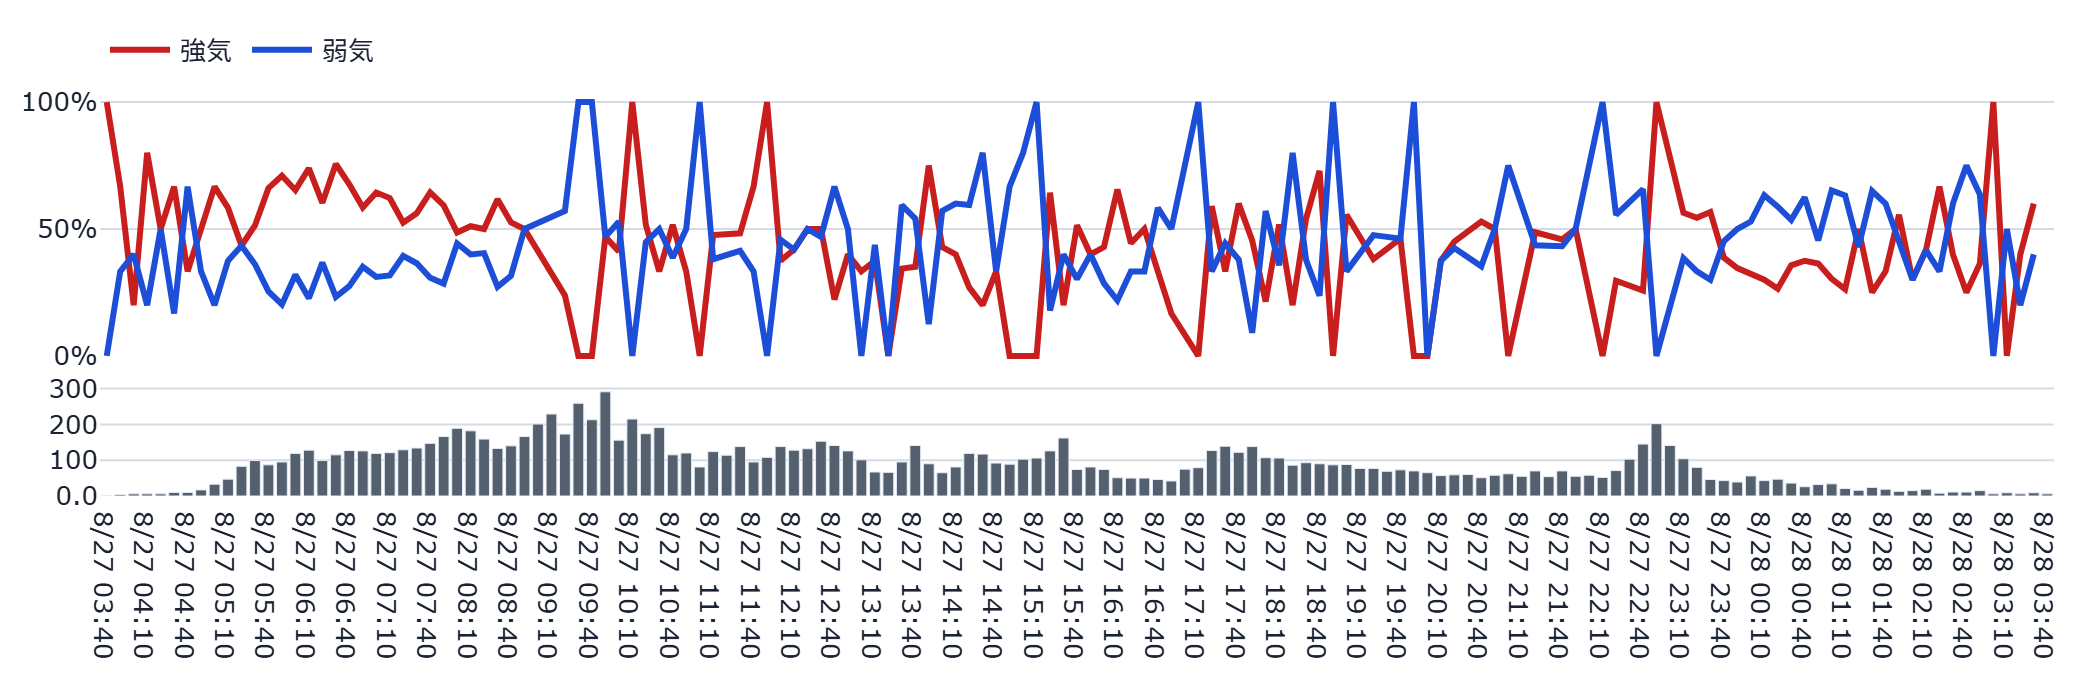
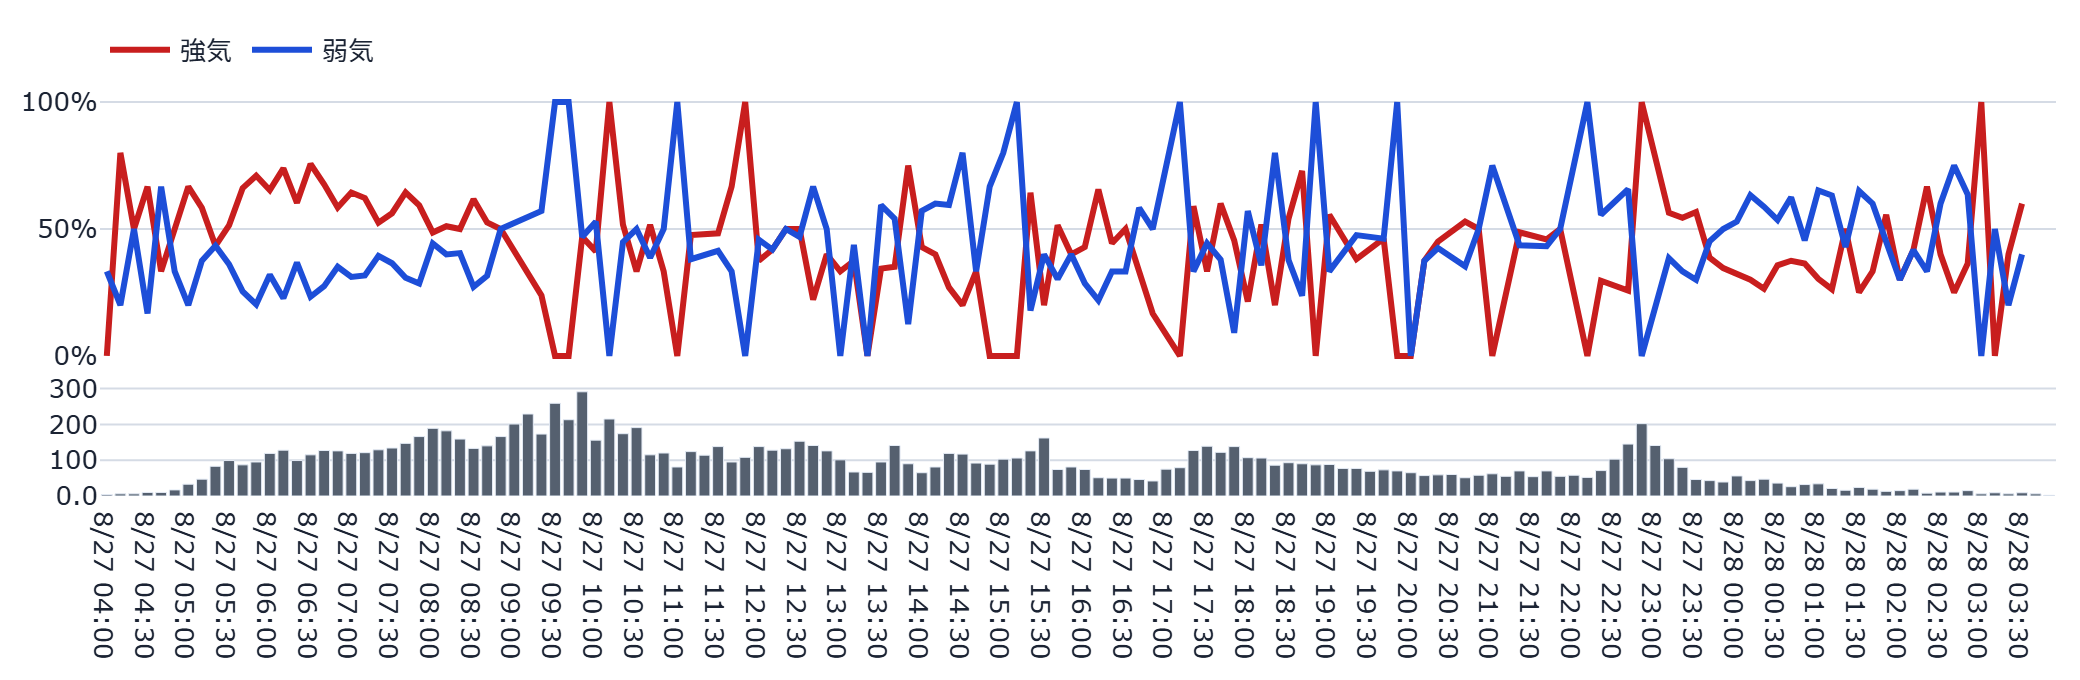
auto: refresh static dashboard (2026-08-28 04:11:59 JST)

Changed region(s): [[0.0312, 0.5868, 1.0, 0.9882], [0.0312, 0.1235, 1.0, 0.525]]

diff --git a/docs/index.html b/docs/index.html
@@ -116,10 +116,10 @@
         <span class="price">52,500円</span>
         <span class="chg" style="color:#8B94A3">—</span>
       </div>
-      <p class="caption">更新時刻: 2026-08-28T03:50:10（データは1分間隔で自動生成され、このページも
+      <p class="caption">更新時刻: 2026-08-28T04:09:40（データは1分間隔で自動生成され、このページも
       60秒毎に自動再読み込みされます）</p>
       
-      <p id='visit-count-badge' class='caption'>👀 累計閲覧数: 1,068</p>
+      <p id='visit-count-badge' class='caption'>👀 累計閲覧数: 1,070</p>
       <p id='like-button-wrap' class='caption'><button id='like-button' type='button' style='cursor:pointer;border:1px solid var(--border);border-radius:6px;padding:1px 10px;margin-right:6px;background:var(--panel);color:var(--text);font-size:1em;vertical-align:middle'>👍</button><span id='like-count-label'>このダッシュボードが役に立ったら押してください（累計 2 いいね）</span></p>
 
       <h2>🔥😱 2大メーター・ボラレジーム</h2>
@@ -136,15 +136,15 @@
           <h3>ボラ・レジーム帯</h3>
           <figure><img src='images/regime_band.png' alt='ボラ・レジーム帯' loading='lazy'></figure>
           <p class='caption'>現在レジーム: 較正中　(BVP=0.167)</p>
-          <div class='metric-row'><div class='metric-card'><div class='metric-label'>PTS（08/28 00:48）</div><div class='metric-value'>50,900円</div><div class='metric-delta' style='color:#1D4ED8'>-3.05%</div></div><div class='metric-card'><div class='metric-label'>米国ADR（08/28 04:05）</div><div class='metric-value'>51,206円</div><div class='metric-delta' style='color:#1D4ED8'>-2.46%</div></div></div><p class='caption'>PTS=東証取引時間外の私設取引システム／ADR=米国預託証券。翌営業日の値動きの参考情報です(それ自体が売買シグナルではありません)。</p>
+          <div class='metric-row'><div class='metric-card'><div class='metric-label'>PTS（08/28 00:48）</div><div class='metric-value'>50,900円</div><div class='metric-delta' style='color:#1D4ED8'>-3.05%</div></div><div class='metric-card'><div class='metric-label'>米国ADR（08/28 04:10）</div><div class='metric-value'>51,028円</div><div class='metric-delta' style='color:#1D4ED8'>-2.80%</div></div></div><p class='caption'>PTS=東証取引時間外の私設取引システム／ADR=米国預託証券。翌営業日の値動きの参考情報です(それ自体が売買シグナルではありません)。</p>
         </div>
       </div>
 
       <h2>📰 関連ニュース（直近24時間）</h2>
-      <div class="panel"><div class='news-summary'>キオクシアは、生成AI普及に伴うメモリ需要に対応するため、今後6年間で国内に総額5兆円規模の投資を行う計画を表明しました。これには岩手県北上工場への約1.8兆円を投じた新製造棟建設が含まれ、2029年度中の稼働を目指しています。また、米サンディスクとの共同投資やSKハイニックスとの協力関係検討、政府支援の期待など、周辺企業や政策との連携も進んでいます。一方、エヌビディアの決算や関連銘柄の動向も市場に影響を与えています。<br>
+      <div class="panel"><div class='news-summary'>キオクシアは、生成AIの普及に伴うメモリ需要に対応するため、今後6年間で国内に総額5兆円規模の投資を行う計画を表明しました。これには米サンディスクとの共同事業が含まれ、岩手県北上市に約1.8兆円を投じて新製造棟を建設し、2029年度中の稼働を目指しています。また、SKハイニックスとの協力関係についても検討が進んでおり、政府への報告や補助金の期待も示されています。市場ではこれらの増産報道を受け、同社や関連銘柄の株価が反応する動きが見られました。<br>
 <br>
 ニュース見出しの要約であり、投資助言ではない。</div>
-<div class='news-row'><a href='https://news.google.com/rss/articles/CBMid0FVX3lxTE4zYTRBWndPTDdHZ2ZVNTJ2ZHFFUVR5UDlWYnlsbkVqRVNIV2czYkxHRVZqbWJNVjlVaWdXR05zUllHRk1DTjR3Tmlfci1ueTJOdG9iUkFDOU1KXzlRMzUxS1YzeEdFTXFKZjJKSTVUNkZMQUFqVy04?oc=5' target='_blank' rel='noopener noreferrer'>SKハイニックスCEO、キオクシアとの協力関係深める方法を検討 - Bloomberg</a><span class='caption'>（Bloomberg・8/28 03:37）</span></div>
+<div class='news-row'><a href='https://news.google.com/rss/articles/CBMid0FVX3lxTE4zYTRBWndPTDdHZ2ZVNTJ2ZHFFUVR5UDlWYnlsbkVqRVNIV2czYkxHRVZqbWJNVjlVaWdXR05zUllHRk1DTjR3Tmlfci1ueTJOdG9iUkFDOU1KXzlRMzUxS1YzeEdFTXFKZjJKSTVUNkZMQUFqVy04?oc=5' target='_blank' rel='noopener noreferrer'>SKハイニックスCEO、キオクシアとの協力関係深める方法を検討 - Bloomberg.com</a><span class='caption'>（Bloomberg.com・8/28 03:37）</span></div>
 <div class='news-row'><a href='https://news.google.com/rss/articles/CBMickFVX3lxTE9EZDEzSmtPRG8xMjVPYnNqNkVHNHEwQ2NvRzVQcGI0Tkk1T0x5N0FsLWRvQmJhOEtPT09uWm1QREdnT3UzZ2dZS0dQM256M2FqSlVTbE1OV1VvQ3RQaEpXdjgwNEczcDNUbXpHRllhY0tKdw?oc=5' target='_blank' rel='noopener noreferrer'>AI を活用したオムニチャネル管理 - NVIDIA</a><span class='caption'>（NVIDIA・8/28 01:30）</span></div>
 <div class='news-row'><a href='https://news.google.com/rss/articles/CBMidEFVX3lxTE1MZ2RPTWdjbmR1NndEZENpQmNTSHBLTDZ4TEV2MldKd0E2N2NDcVV6eW40b2ZvTjc4ZktOelE2SmNjMUNPWURidHNzbzhKdnJxRWlWRDlQRlpXZVJLNU43RTkwT3F1bUh5enFFb1F4MDVHX1Bu?oc=5' target='_blank' rel='noopener noreferrer'>エヌビディア決算がAIバブル論を一蹴 米株は急伸で寄り付く UBSはファンダメンタルズを支持 - BigGo ファイナンス</a><span class='caption'>（BigGo ファイナンス・8/27 23:55）</span></div>
 <div class='news-row'><a href='https://news.google.com/rss/articles/CBMibEFVX3lxTE0yREo3eDlHT2JkZTZCc0VzSVBVY29HYlBjbDJUVUxGZmt2clhkV3FwMGhkS0g3YkJEWWFkbUxOTml5UzB3ZWVlNmNHRUR3MkVWQjRFQkJJTVQ4bVdQUURjUWVNUWFOU1VYYks0Mw?oc=5' target='_blank' rel='noopener noreferrer'>NYダウ一進一退で始まる NVIDIA一時8%高、ナスダック総合は反発 - 日本経済新聞</a><span class='caption'>（日本経済新聞・8/27 23:46）</span></div>
@@ -197,22 +197,22 @@
       
 
       <h2>🤖 AI考察</h2>
-      <div class='metric-row'><div class='metric-card'><div class='metric-label'>株価</div><div class='metric-value'>52,500円</div><div class='metric-delta'>+0円</div></div><div class='metric-card'><div class='metric-label'>強気比率</div><div class='metric-value'>35.2%</div><div class='metric-delta'>+0.4pt</div></div><div class='metric-card'><div class='metric-label'>弱気比率</div><div class='metric-value'>53.9%</div><div class='metric-delta'>-0.8pt</div></div></div><p class='caption'>前回集計(2026-08-28T03:42:05)との比較</p>
-      <div class='ai-box'>本日の寄り付きを前にしたキオクシアホールディングス（285A）の掲示板におけるセンチメントデータに基づき、現状の状況を客観的に分析します。<br>
+      <div class='metric-row'><div class='metric-card'><div class='metric-label'>株価</div><div class='metric-value'>52,500円</div><div class='metric-delta'>+0円</div></div><div class='metric-card'><div class='metric-label'>強気比率</div><div class='metric-value'>35.2%</div><div class='metric-delta'>+0.0pt</div></div><div class='metric-card'><div class='metric-label'>弱気比率</div><div class='metric-value'>53.9%</div><div class='metric-delta'>+0.0pt</div></div></div><p class='caption'>前回集計(2026-08-28T03:50:10)との比較</p>
+      <div class='ai-box'>本日の寄り付きを前にしたキオクシアホールディングス（285A）の掲示板センチメントを分析します。<br>
 <br>
-まず、前営業日の終値を基準とした直近の価格推移と投稿者の反応を見ると、非常に複雑な心理状態が読み取れます。過去数日間の推移では、強気・弱気の比率が激しく入れ替わっており、特に8月17日から20日にかけては大きなボラティリティを伴う展開が見られました。前営業日の終値時点では強気比率が上昇していましたが、本日の寄り付き前の集計では再び弱気比率が過半数（53.9%）を占めています。<br>
+前営業日の終値（52,500円）を基準とした現在の状況を見ると、掲示板上では弱気派が過半数（53.9%）を占めており、慎重な姿勢が目立ちます。特筆すべきはシグナル発火の状況です。「ネームド集中」と「他銘柄混入率」の両方が発火しており、特定の熱心な投稿者による意見が目立つ一方で、関心が他の銘柄へ分散している兆候が見て取れます。また、「話題枯れ」も発火しており、投稿数自体は減少傾向にあります。これらの変化を前営業日と比較すると、過熱感やイナゴ語彙といった「熱狂的な盛り上がり」を示す指標が落ち着いた一方で、特定の層による意見の固定化と関心の希薄化が進んでいることが推察されます。<br>
 <br>
-特筆すべきは、シグナル発火状況における「ネームド集中」と「他銘柄混入率」の双方が発火している点です。これは特定の少数の意見が強く反映される一方で、関心が他の銘柄にも分散していることを示唆しています。また、「話題枯れ」も同時に発火しており、投稿数自体は減少傾向にある中で、一部の熱心な層による限定的な議論が行われている可能性が考えられます。過熱度スコアやイナゴ語彙といった「熱狂」を示す指標が平常範囲内（OK）であることと合わせると、市場全体を突き動かすような爆発的な盛り上がりよりも、静かながらも慎重で、かつやや分散した関心状態にあると言えます。<br>
+価格動向とセンチメントの関係性については、直近数日の推移から興味深い動きが見られます。8月17日以降、価格の乱高下に伴い強気・弱気の比率が激しく入れ替わっており、現在は前営業日の終値付近でやや弱気な反応が優勢となっています。しかし、過熱度スコアは低水準（8.2）に留まっており、掲示板上のセンチメントは「熱狂」というよりは、価格の不安定さに対する「警戒感」や「様子見」の色合いが強いと考えられます。<br>
 <br>
-ボラティリティのレジームは現在「calibrating（較正中）」となっており、現在のセンチメントの強弱が極端な値動きに直結しているかについては、現時点ではデータが確定していない状況です。また、PTSや米国ADRでは前営業日の終値を下回る動きを見せており、寄り付きに向けた投資家心理には、夜間の海外市場や私設取引システムでの反応を意識した警戒感が一部含まれている可能性があります。<br>
+ボラティリティについては現在calibrating（較正中）となっており、市場の変動幅を正確に捉えようとしている段階です。この状況下でセンチメントが極端な強気・弱気に振れていない点は、現在の不透明なボラティリティに対して投資家層が慎重な判断を下していることを示唆しています。<br>
 <br>
-総じて、掲示板上では弱気的な見方が優勢ですが、それは熱狂的な売り（阿鼻叫喚）によるものではなく、話題の分散と特定の意見への集中が混在する、やや停滞感のあるセンチメントとして現れています。<br>
+なお、夜間取引（PTS）や米国ADRでは前営業日の終値から約3%程度の軟調な動きとなっており、寄り付きに向けた市場の反応を注視する材料となります。直近数分間の集計では価格や比率に変化はなく、静観している状況です。<br>
 <br>
-本分析は掲示板の集計センチメントデータに基づく分析であり、投資助言ではありません。</div><p class='caption'>生成時刻: 2026-08-28T03:50:10</p>
+本分析は掲示板の集計センチメントデータに基づく分析であり、投資助言ではありません。</div><p class='caption'>生成時刻: 2026-08-28T04:09:40</p>
 
       <hr style="border:none;border-top:1px solid var(--border);margin:2rem 0 1rem">
       <p class="caption">⚠ 本情報は掲示板投稿を統計的に集計したものであり、投資助言ではありません。個別の投稿内容は含まれていません。研究・エンタメ用途です。</p>
-      <footer>生成: generate_static_dashboard.py（2026-08-28T04:09:49） /
+      <footer>生成: generate_static_dashboard.py（2026-08-28T04:11:52） /
       画像バックエンド: plotly+kaleido</footer>
     </div>
     <script>(function(){var url="https://script.google.com/macros/s/AKfycbwgSSGQ2n56ohmIYKlNDA1Xe3D8hd3GJbD0U90L4DGtXdb8pqrPokNMHJWjvN1__7bE/exec";var KEY='bbs_visit_counted';var already=sessionStorage.getItem(KEY);var action=already?'read':'hit';var ctrl=(typeof AbortController!=='undefined')?new AbortController():null;var timer=ctrl?setTimeout(function(){ctrl.abort();},5000):null;fetch(url+'?action='+action,{signal:ctrl?ctrl.signal:undefined}).then(function(r){if(timer)clearTimeout(timer);return r.json();}).then(function(data){if(!already)sessionStorage.setItem(KEY,'1');if(data&&typeof data.count==='number'){var el=document.getElementById('visit-count-badge');if(el){el.textContent='\u{1F440} \u7d2f\u8a08\u95b2\u89a7\u6570: '+data.count.toLocaleString();el.style.display='';}}}).catch(function(e){if(timer)clearTimeout(timer);console.warn('visit counter fetch failed (fail-soft):',e);});})();</script><script>(function(){var url="https://script.google.com/macros/s/AKfycbwgSSGQ2n56ohmIYKlNDA1Xe3D8hd3GJbD0U90L4DGtXdb8pqrPokNMHJWjvN1__7bE/exec";var KEY='bbs_liked';var btn=document.getElementById('like-button');var label=document.getElementById('like-count-label');if(!btn||!label)return;function renderLiked(count){btn.disabled=true;btn.style.cursor='default';btn.style.opacity='0.6';btn.textContent='\u2705';label.textContent="\u3044\u3044\u306d\u3057\u307e\u3057\u305f\uff01"+(typeof count==='number'?"\uff08\u7d2f\u8a08 "+count.toLocaleString()+" \u3044\u3044\u306d\uff09":'');}if(localStorage.getItem(KEY)){renderLiked(null);}btn.addEventListener('click',function(){if(localStorage.getItem(KEY))return;btn.disabled=true;var ctrl=(typeof AbortController!=='undefined')?new AbortController():null;var timer=ctrl?setTimeout(function(){ctrl.abort();},5000):null;fetch(url+'?action=like_hit',{signal:ctrl?ctrl.signal:undefined}).then(function(r){if(timer)clearTimeout(timer);return r.json();}).then(function(data){localStorage.setItem(KEY,'1');renderLiked(data&&typeof data.count==='number'?data.count:null);}).catch(function(e){if(timer)clearTimeout(timer);btn.disabled=false;console.warn('like button fetch failed (fail-soft):',e);});});})();</script></body></html>
